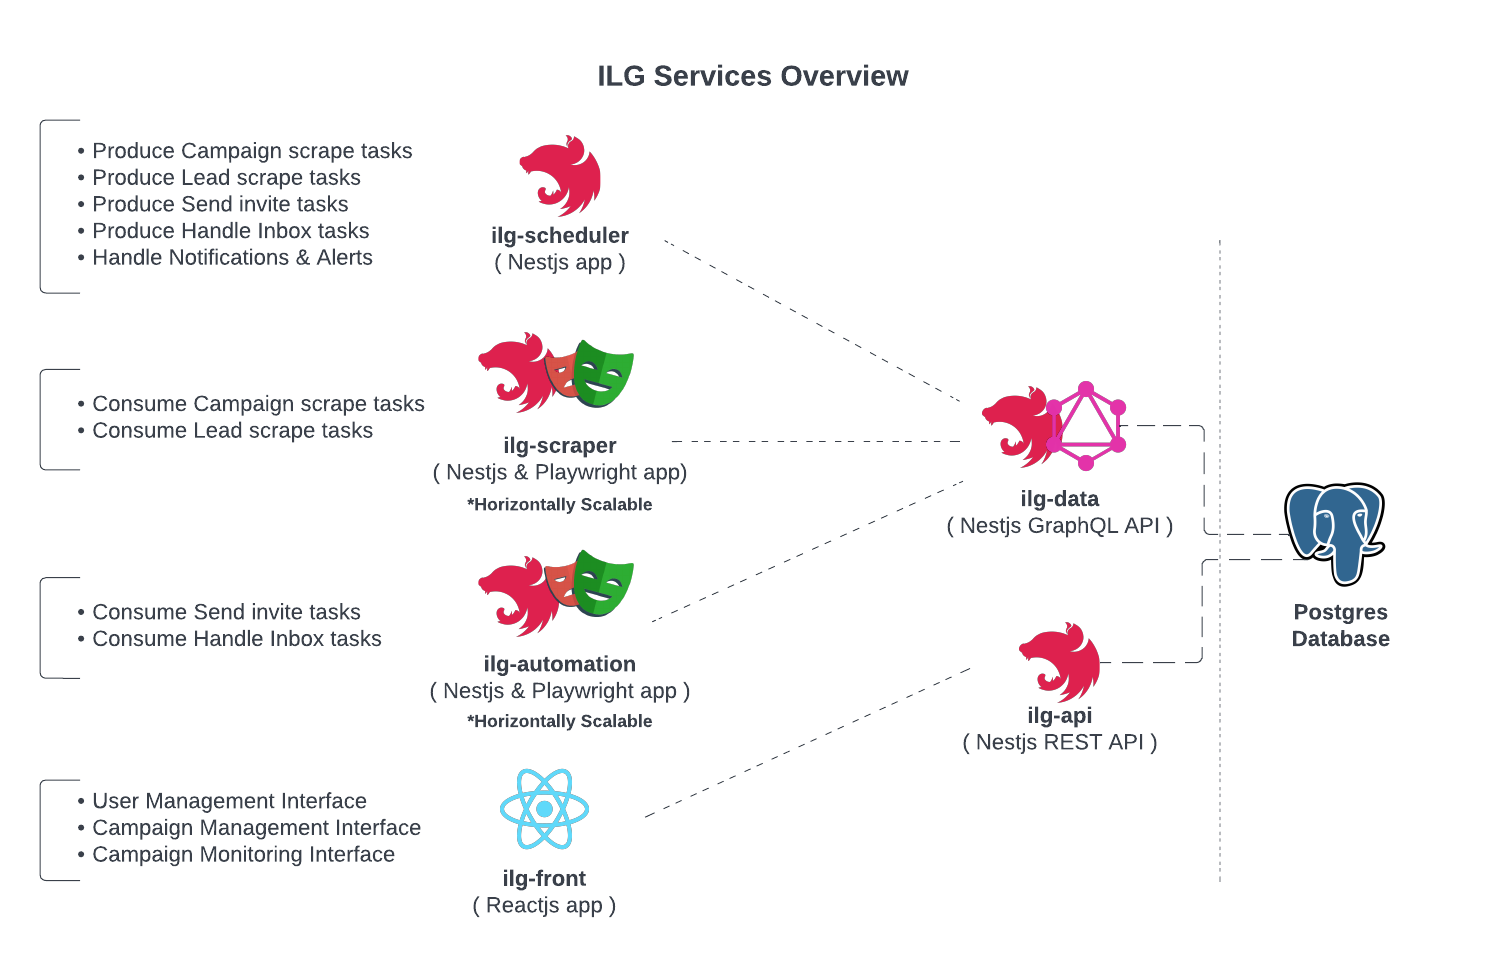
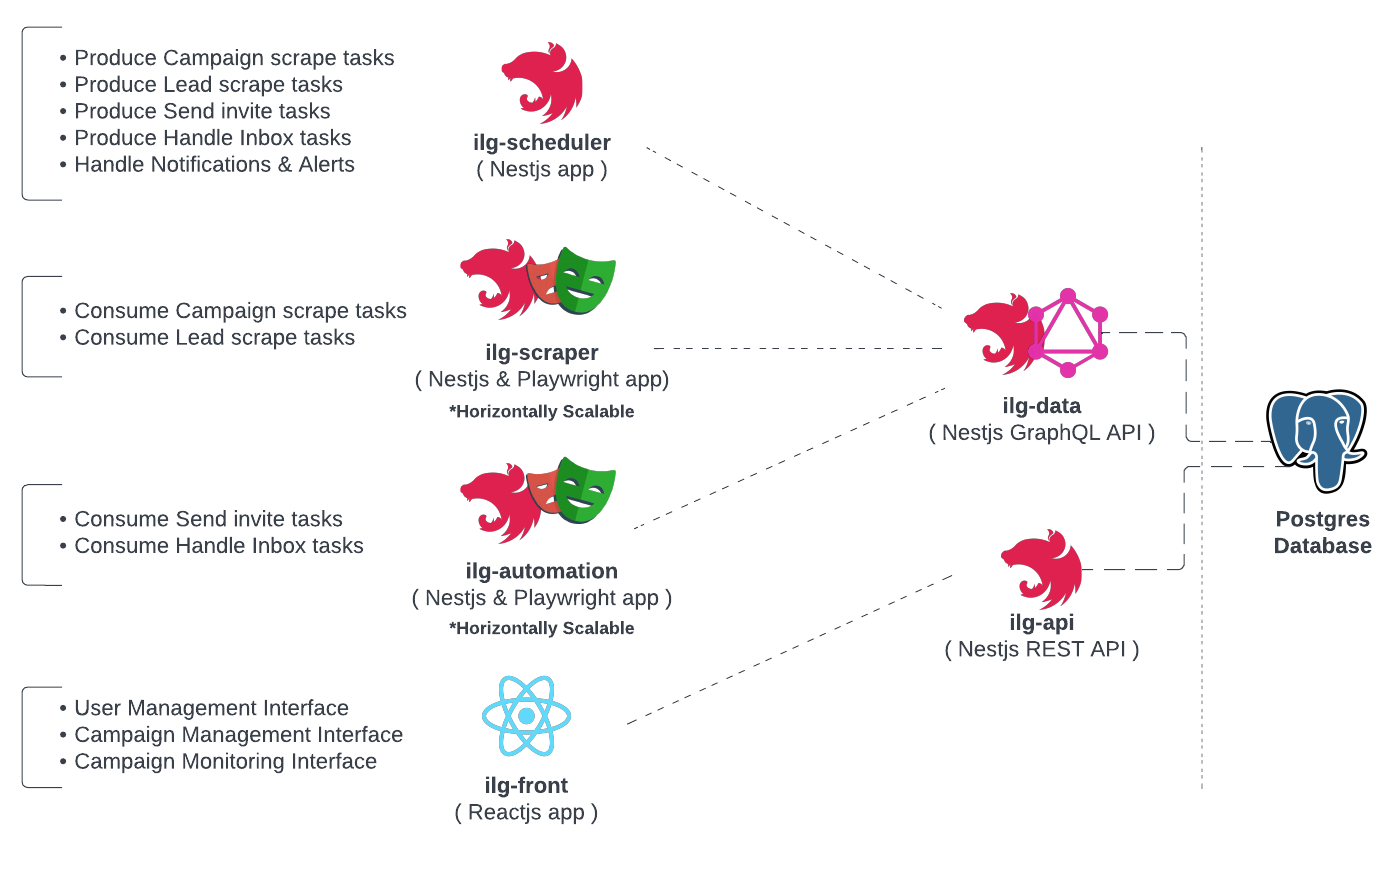
Cleanup white spaces

diff --git a/src/chapters/chapter3.tex b/src/chapters/chapter3.tex
@@ -95,14 +95,20 @@ So here is the requirements of both parts:
 In this section, we will dive deep into the conception and the logic behind the parts of the application:
 
 \subsection{Architecture}
+The next diagram shows the various microservices that make up our application.
+The bulleted lists show the main tasks of each of the services.
+We can see that the heavy services interact with a GraphQL data layer whereas the frontend interacts with an API layer.
+
+We will discuss each service with more details in the upcoming sub-sections.
+
 \begin{figure}[H]
 	\centering
-	\makebox[\textwidth]{\includegraphics[width=17cm]{src/assets/diagrams/overview.png}}
-	\caption{Overview of the ILG services}
+	\makebox[\textwidth]{\includegraphics[width=15cm]{src/assets/diagrams/overview.png}}
+	\caption{Overview of ILG services}
 	\label{fig:services-overview}
 \end{figure}
 
-\subsubsection{Microservices}
+\subsubsection*{\underline{Microservices}}
 \begin{table}[H]
 	\renewcommand{\arraystretch}{1.5}%
 	\caption{All the application's Microservices}
@@ -130,7 +136,7 @@ In this section, we will dive deep into the conception and the logic behind the 
 	\end{tabularx}
 \end{table}
 
-\subsubsection{Cloud Infrastructure}
+\subsubsection*{\underline{Cloud Infrastructure}}
 Since we are deploying to a Kubernetes cluster, we decided to distribute our different microservices into their corresponding nodes or virtual machines depending on their shared components and scalability.
 \begin{figure}[H]
 	\centering
@@ -187,8 +193,15 @@ The diagram below illustrates the different producers and consumers of the tasks
 \end{figure}
 
 \subsection{Scraper \& Automation}
-The ilg-scraper and ilg-automation services are responsible for consuming the tasks generated on a daily basis by the system.
-Their main purpose is to generate leads for the various campaigns.
+The ilg-scraper and ilg-automation services are responsible for consuming the tasks generated by the system on a daily basis.
+
+The main purposes of the two modules boils down to:
+\begin{itemize}
+	\item \textbf{Scraper:} Scrapes the LinkedIn information of various leads from a campaign link that is a valid sales navigator URL.
+	\item \textbf{Automation:} Generates leads by sending connection requests or invites to the many LinkedIn profiles saved by the scraper using the customer's LinkedIn account.
+\end{itemize}
+
+So that in the end, if a lead replies to a customer, we register that as a valid lead that has been acquired and save a new record to be able to accurately bill our customers.
 
 \subsubsection*{\underline{Scraper service flow}}
 \begin{figure}[H]

diff --git a/src/chapters/chapter4.tex b/src/chapters/chapter4.tex
@@ -23,7 +23,7 @@ To provision the hardware resources that we need for the deployment, we're going
 \cite[Ionos is a web hosting company founded in Germany in 1988 and is currently owned by United Internet.]{ionos-wikipedia}
 \begin{figure}[H]
     \centering
-    \makebox[\textwidth]{\includegraphics[width=10cm]{src/assets/images/ionos-logo.png}}
+    \makebox[\textwidth]{\includegraphics[width=8cm]{src/assets/images/ionos-logo.png}}
     \caption{Logo of IONOS}
     \label{fig:logo-of-ionos-cloud}
 \end{figure}
@@ -31,13 +31,27 @@ To provision the hardware resources that we need for the deployment, we're going
 IONOS Cloud provides -through the Ionos cloudpanel service- an easy way to create and manage virtual machines, firewall rules, private networks and various other infrastructure components.
 \begin{figure}[H]
     \centering
-    \makebox[\textwidth]{\includegraphics[width=15cm]{src/assets/images/ionos-cloudpanel-dashboard.JPG}}
+    \makebox[\textwidth]{\includegraphics[width=\linewidth]{src/assets/images/ionos-cloudpanel-dashboard.JPG}}
     \caption{Ionos cloudpanel dashboard}
     \label{fig:image-of-ionos-cloudpanel-dashboard}
 \end{figure}
 
+The dashboard options of IONOS cloudpanel we use during our deployment process are:
+
+\textbf{Infrastructure:}
+\begin{itemize}
+    \item \textbf{Server:} To create and manage our virtual machines.
+    \item \textbf{Block storage:} To create and connect an SSD to a single server for extra storage.
+\end{itemize}
+
+\textbf{Network:}
+\begin{itemize}
+    \item \textbf{Firewall Policies:} To create firewall rules to protect our VMs.
+    \item \textbf{Private Network:} To create and manage private networks for server to server communication.
+\end{itemize}
+
 The two images below show the available \glsxtrshort{vm} sizes in the Ionos cloudpanel dashboard and their corresponding specifications.
-We will refer to the sizes in the tables of the next section entitled \textbf{Kubernetes Cluster}.
+We will refer to the sizes in the tables of the next section.
 \begin{figure}[H]
     \centering
     \makebox[\textwidth]{\includegraphics[width=\linewidth]{src/assets/images/vm-standard.jpg}}

diff --git a/src/chapters/chapter2.tex b/src/chapters/chapter2.tex
@@ -78,7 +78,7 @@ These services are owned by small, self-contained teams. \cite{microservices}
 Microservices architectures make applications easier to scale and faster to develop, enabling innovation and accelerating time-to-market for new features.
 \begin{figure}[H]
     \centering
-    \makebox[\textwidth]{\includegraphics[width=12cm]{src/assets/images/microservices.png}}
+    \makebox[\textwidth]{\includegraphics[width=\linewidth]{src/assets/images/microservices.png}}
     \caption{Monolith to microservices example}
     \label{fig:monolith-to-microservices}
 \end{figure}

diff --git a/README.md b/README.md
@@ -17,7 +17,7 @@ See the following links for all deployed services:
 - [x] Add the lines at the top to remind on which chapter the reader is on.
 - [x] Add non functional requirements (page 38 of old report).
 - [x] Add section about setting up the pipelines in functional requirements.
-- [ ] Clean up the realization section that includes the dashboard.
+- [x] Clean up the realization section that includes the dashboard.
 - [ ] (optional) Add figures of various meetings to appendix.
 - [ ] (optional) Create a final diagram with all software components, potentially incrementally for each realization section.
 
